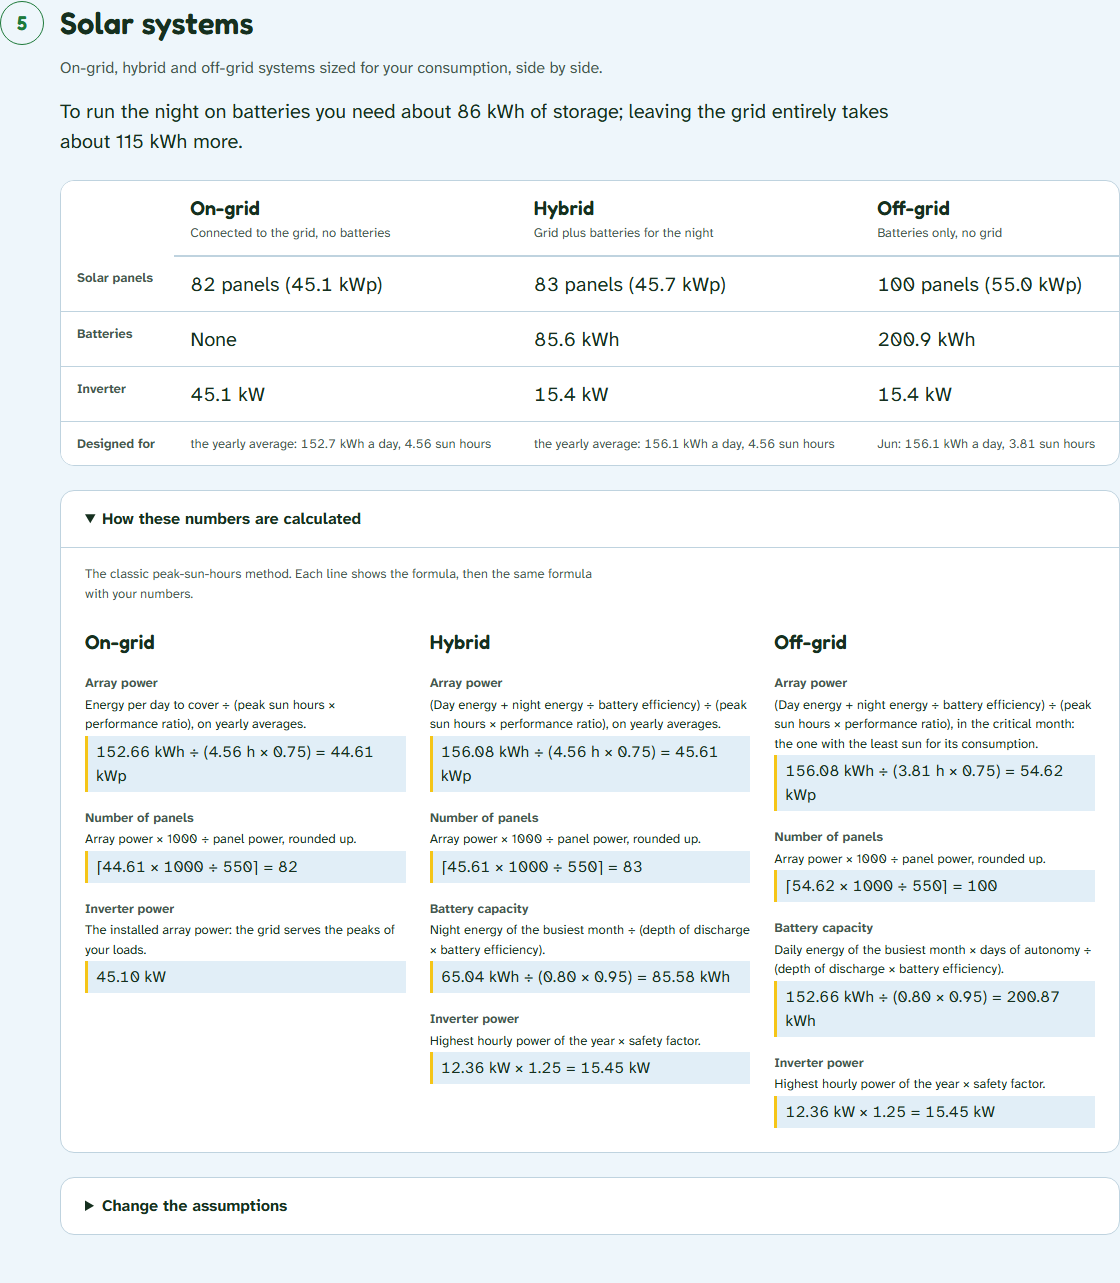
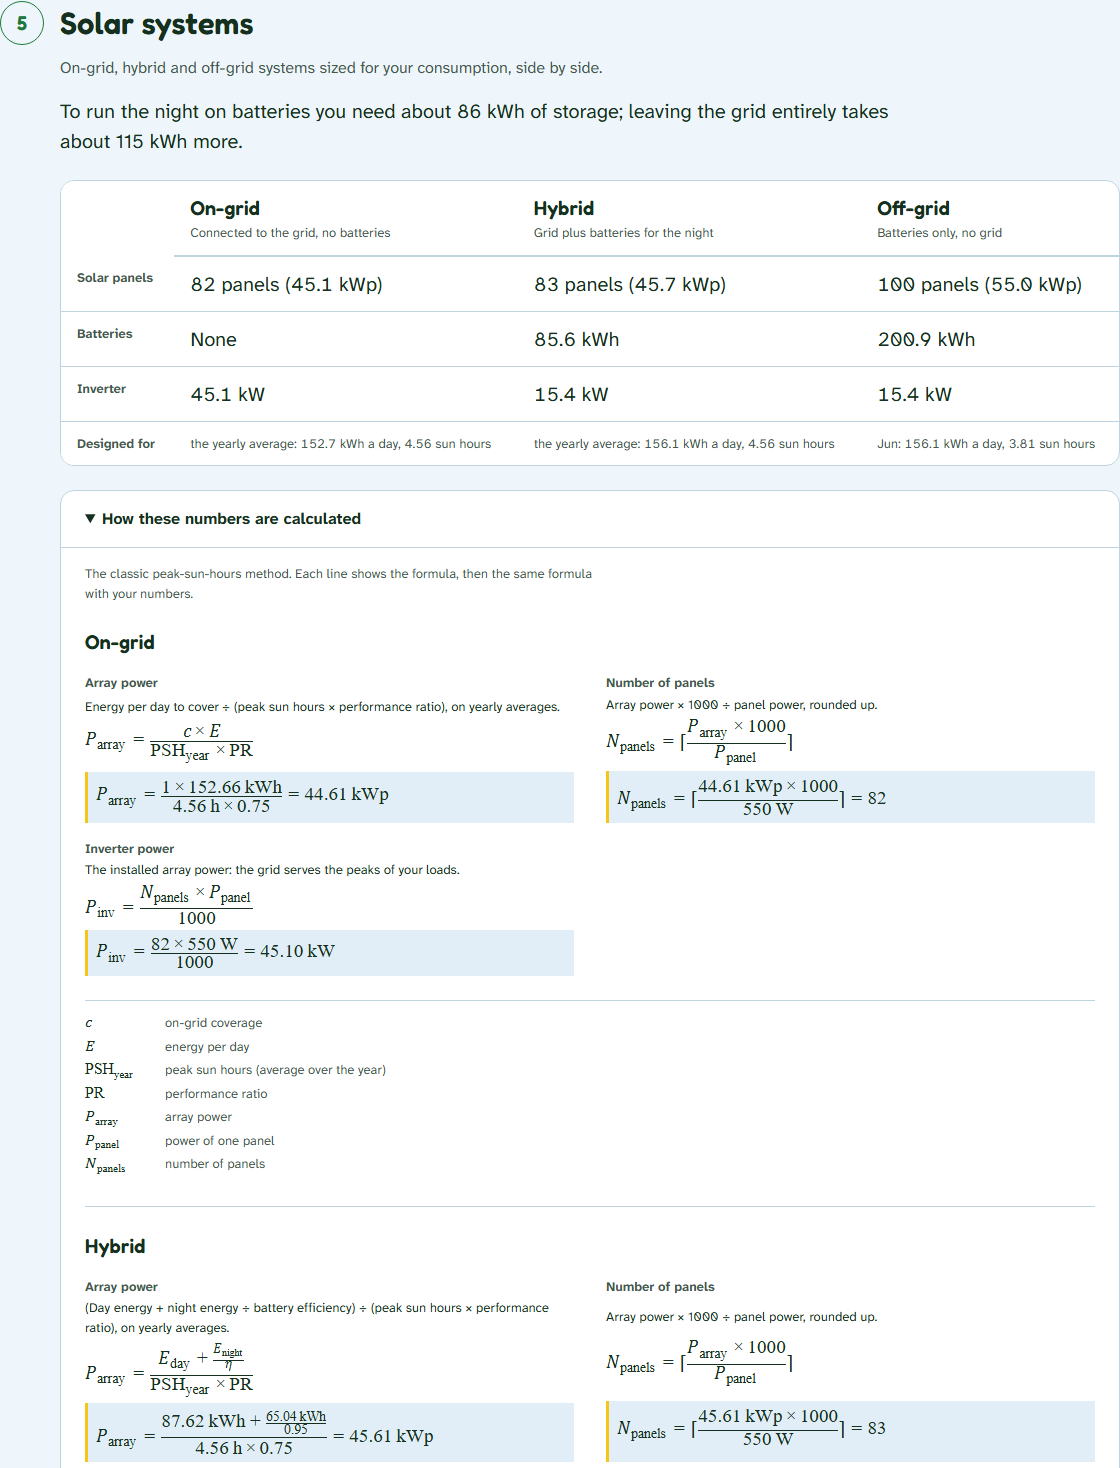
docs: describe self-explaining sizing and the PVGIS fixes
README: formulas drawn as real fractions and repeated in the report's
Calculations sheet, a design note on expression trees, two new 'What I
learned' entries, and a fresh screenshot of the formulas.

Changed region(s): [[0.0, 0.0, 1.0, 0.9977], [0.0625, 0.8418, 0.5, 0.9977], [0.7812, 0.1247, 1.0, 0.3741]]

diff --git a/README.md b/README.md
@@ -13,7 +13,7 @@ It is a full rewrite of my earlier Streamlit prototype, [Herramienta-Cuadro-de-C
 - **Load table editor**: each piece of equipment with its rated power, a usage factor (a fridge compressor runs about 40% of each hour) and the hours it is on, painted by dragging across a 24-hour grid. Import and export CSV or Excel, including the old Spanish template; invalid rows are listed with their row and column instead of failing the whole file.
 - **Consumption analysis**: hourly profile, load duration curve, peak/base power and load factor for the whole day, daytime and night-time, monthly and yearly energy with seasonal multipliers, and a load × hour heatmap.
 - **Solar resource**: the twelve monthly peak sun hours of any location from [PVGIS](https://joint-research-centre.ec.europa.eu/photovoltaic-geographical-information-system-pvgis_en) (EU Joint Research Centre), with the optimal panel tilt, or typed by hand.
-- **System sizing**: on-grid, hybrid and off-grid systems side by side (panels, battery capacity, inverter), with **every formula shown with your own numbers** and editable assumptions.
+- **System sizing**: on-grid, hybrid and off-grid systems side by side (panels, battery capacity, inverter), with editable assumptions and **every formula drawn as a real fraction, first with symbols and then with your own numbers**. The Excel report repeats them in a Calculations sheet.
 - **Your work stays yours**: save the whole study as a JSON file and open it later, download an Excel report, or print a clean A4 report. Nothing is stored on the server.
 - **English and Spanish**, light and dark themes, keyboard friendly, colour-blind-safe day/night colours, and reduced motion respected.
 
@@ -94,6 +94,7 @@ Errors carry stable codes that the frontend translates: validation errors use Fa
 
 - **Stateless**: no database or accounts. The browser holds the study; files keep it.
 - **One place for each rule**: the domain types are Pydantic models, so the same validation applies to JSON requests and to spreadsheet rows.
+- **The sizing explains itself**: each result comes with its calculation as a small expression tree, and the number is obtained by evaluating that tree. The browser draws the trees as MathML and the report as text, so the formula shown is always the one that was used.
 - **No frontend build**: plain JavaScript modules and one vendored library (Chart.js, checked against its npm integrity hash). A single store and a `render(state)` per view replace a framework.
 
 ## What I learned
@@ -103,6 +104,8 @@ Errors carry stable codes that the frontend translates: validation errors use Fa
 - **Validation that serves the user.** Pydantic error types become codes, codes become messages in two languages, and a spreadsheet with two bad rows still imports the good ones.
 - **Real-world spreadsheets with pandas**: `;` separators, decimal commas, Windows encodings, numeric headers and blank cells.
 - **Wrapping an external API behind an adapter**, injecting the HTTP client and testing timeouts, sea locations and broken answers without touching the network.
+- **Explanations that cannot drift from the maths**: the first version of the formula panel rebuilt the numbers with its own arithmetic. Moving the formulas into the domain as expression trees, and computing the results from them, made the explanation true by construction and revealed an input it had been hiding (the seasonal multiplier in the inverter size).
+- **Debugging a third-party API by measuring it**: "PVGIS is not answering" turned out to be three different failures (location-specific server errors, dropped connections, a request that hung for ten minutes), each now handled on its own terms.
 - **Floating-point ties**: twelve identical months differed by about 1e-15, enough to make April "more critical" than January. Comparing rounded values fixed it.
 - **A frontend without a framework**: one source of truth and render functions, accessible colour contrast (WCAG AA, checked with a script), reduced motion, keyboard use, and fixing layout bugs found by automated screenshots.
 
